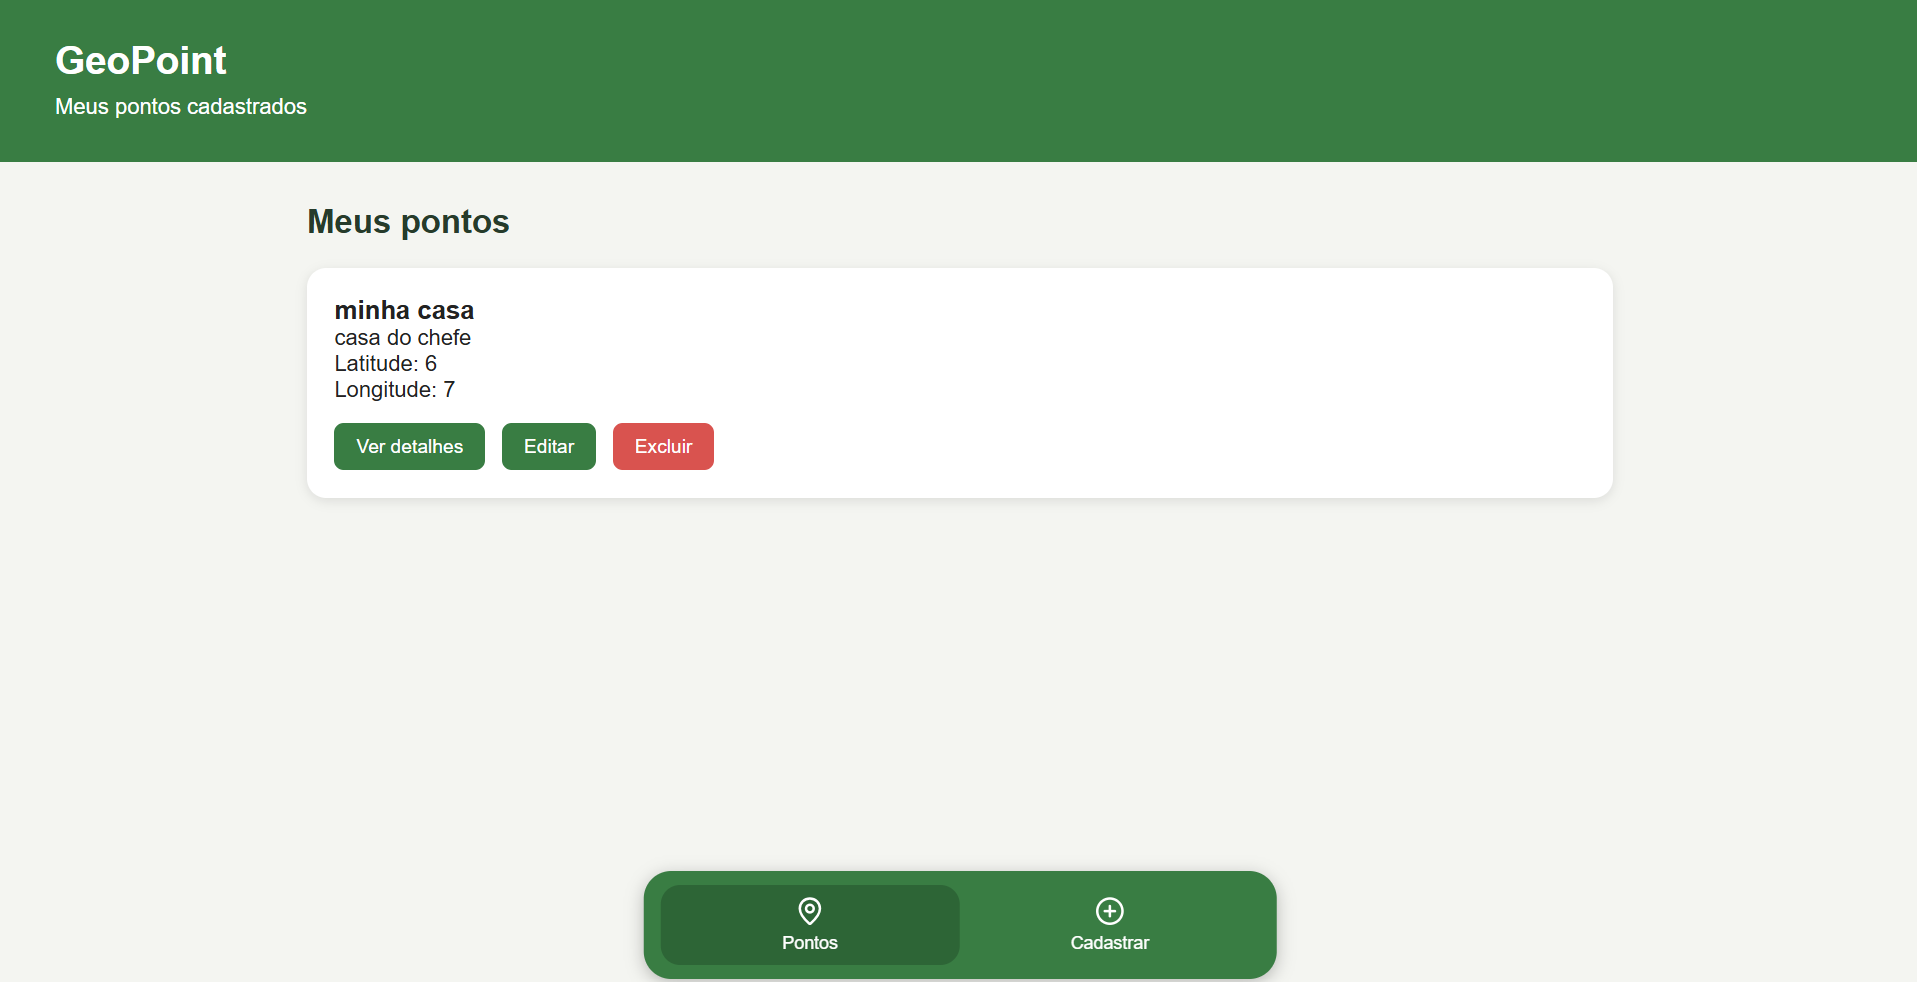
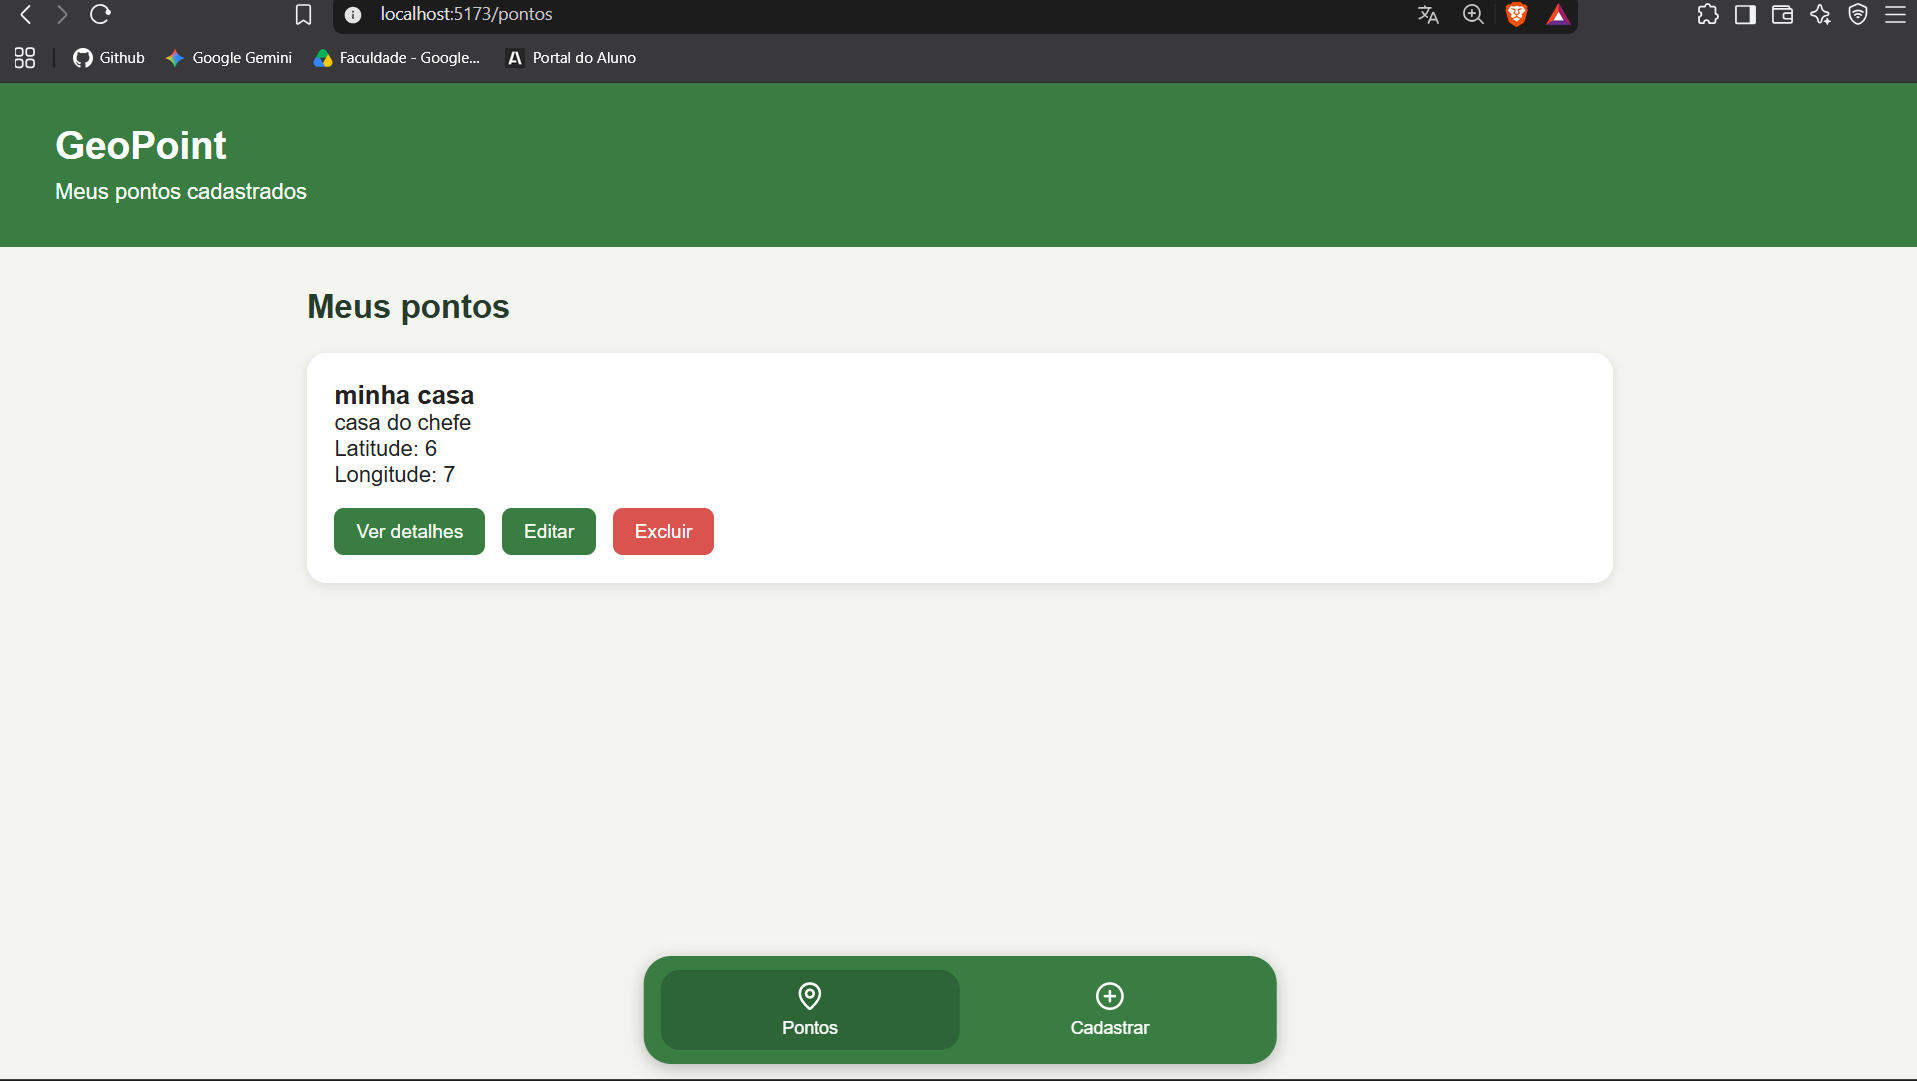
fix: atualização do ReadMe.md com imagens

Changed region(s): [[0.0, 0.0, 1.0, 0.2444], [0.1539, 0.2749, 0.831, 0.5193], [0.3078, 0.8859, 0.6771, 1.0]]

diff --git a/README.md b/README.md
@@ -48,4 +48,10 @@ https://geoatlas-nqtx.onrender.com
 
 Certifique-se de que a API esteja em execução antes de utilizar a aplicação.
 
+## Imagens da Página Web:
+
 ![alt text](image.png)
+![alt text](image-1.png)
+![alt text](image-2.png)
+![alt text](image-3.png)
+![alt text](image-4.png)
